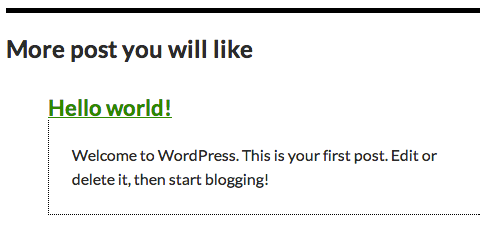
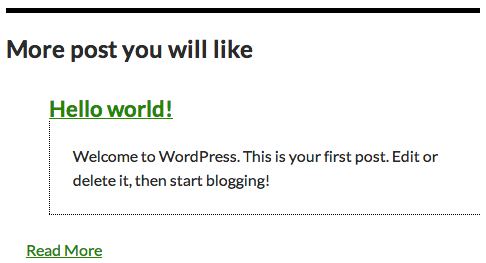
updated example images and added example

diff --git a/QueryQuery_options.php b/QueryQuery_options.php
@@ -16,7 +16,7 @@ $option_list_names = array(
 			"default" => "1"
 			),
 		array(
-			"name" => "postsoffset",
+			"name" => "offset",
 			"type" => "text",
 			"title" => "Offset by ? Number of Posts",
 			"default" => "null"
@@ -116,13 +116,13 @@ $option_list_names = array(
 		 array(
 			"name" => "disablethumbnails",
 			"type" => "check",
-			"title" => "Disable All Thumbnails with Post",
+			"title" => "Disable Thumbnails",
 			"default" => "0"
 			),
 		array(
 			"name" => "disabledefautlthumb",
 			"type" => "check",
-			"title" => "Disable Post Thumbnail Default Fallback Image",
+			"title" => "Disable Thumbnail Default Image",
 			"default" => "0"
 			),
 		 array(

diff --git a/QueryQuery_examples.php b/QueryQuery_examples.php
@@ -22,6 +22,14 @@ $example_list_names = array(
 			"example_text" =>"&#091;QueryQuery disablethumbnails=&quot;1&quot; disabledate=&quot;1&quot;&#093; ",
 			"image_name" => "standard-no-image-date.png",
 			"desc" =>"This is the standard view with no image and no date shown."
+			),
+			array(
+			"title" => "Disable Excerpts",
+			"type" => "default",
+			"example_text" =>"&#091;QueryQuery disablethumbnails=&quot;1&quot; disabledate=&quot;1&quot; disableexcerpt=&quot;1&quot; &#093; ",
+			"image_name" => "standard-no-image-date-exerpt.png",
+			"desc" =>"This is the standard view with no image, no date shown, and no excerpt."
 			)
 		);
 ?>
+
